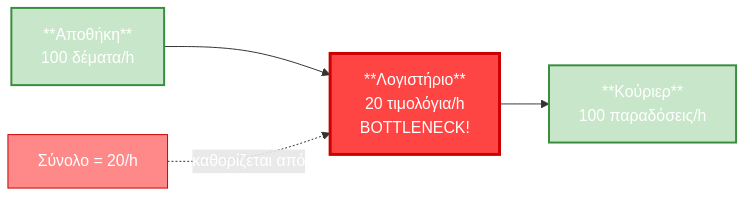
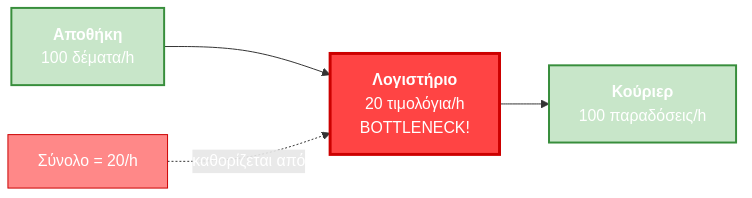
docs(lecture2): update content and diagrams
Expand explanations for the Product-Process Matrix diagonal and example.
Add section on applying facility layout to software/services.
Update associated lecture diagrams and slide styling.

Changed region(s): [[0.4588, 0.3636, 0.6423, 0.4545], [0.7952, 0.4242, 0.9176, 0.5152], [0.0612, 0.1515, 0.1835, 0.2121]]

diff --git a/msc/lectures/lecture2_el.md b/msc/lectures/lecture2_el.md
@@ -320,7 +320,7 @@ style: |
 
 # 3. Product-Process Matrix
 
-<!-- _class: xsmall -->
+<!-- _class: xxsmall -->
 
 Οι **Hayes & Wheelwright (1979)** συνδέουν τον **τύπο προϊόντος** με τον **τύπο διαδικασίας**:
 
@@ -332,13 +332,13 @@ style: |
 | Κόστος/μονάδα | Υψηλό | Μέσο | Χαμηλό |
 | Ευελιξία | Πολύ υψηλή | Μέτρια | Χαμηλή |
 
-**Η «διαγώνιος»:** εταιρείες που βρίσκονται εκτός της φυσικής διαγωνίου αντιμετωπίζουν **ανταγωνιστικό μειονέκτημα**.
+**Η «διαγώνιος»:** Αυτή η διαγώνιος αντιπροσωπεύει την ιδανική ευθυγράμμιση μεταξύ του τύπου του προϊόντος (που χαρακτηρίζεται από την ποικιλία και τον όγκο παραγωγής) και του τύπου της διαδικασίας παραγωγής. Οι εταιρείες που βρίσκονται πάνω σε αυτή έχουν **ευθυγραμμίσει σωστά** τον τύπο προϊόντος με τον τύπο διαδικασίας, βελτιστοποιώντας τις λειτουργίες τους για αποδοτικότητα και ανταγωνιστικότητα. Όσες βρίσκονται εκτός, αντιμετωπίζουν **ανταγωνιστικό μειονέκτημα**.
 
 > **⚠ Ερώτηση για σκέψη:** Τι θα συνέβαινε αν προσπαθούσαμε να κατασκευάσουμε ένα **πολυτελές, custom γιοτ** (Project/Job Shop) πάνω σε μια **κινούμενη γραμμή συναρμολόγησης** της Ford (Assembly Line);
 >
-> — Το γιοτ δεν θα χωράει · δεν μπορεί να "ρέει" στη γραμμή · κάθε γιοτ είναι διαφορετικό, αλλά η γραμμή απαιτεί πανομοιότυπα βήματα. Αποτέλεσμα: **τεράστιο κόστος, μηδενική ευελιξία, χαμένη επένδυση**.
+> — Το γιοτ, ως μοναδικό και εξατομικευμένο προϊόν, δεν θα μπορούσε να "ρέει" σε μια τυποποιημένη γραμμή. Η γραμμή απαιτεί πανομοιότυπα βήματα και εξειδικευμένο εξοπλισμό για μεγάλο όγκο, ενώ το γιοτ χρειάζεται γενικής χρήσης εξοπλισμό και υψηλής εξειδίκευσης εργατικό δυναμικό. Το αποτέλεσμα θα ήταν: **τεράστιο κόστος, μηδενική ευελιξία και μια χαμένη επένδυση**.
 >
-> Αυτό ακριβώς είναι το «εκτός διαγωνίου» — λάθος διεργασία για το λάθος προϊόν.
+> Αυτό ακριβώς είναι το «εκτός διαγωνίου» — η επιλογή **λάθος διεργασίας για το λάθος προϊόν**, οδηγώντας σε αναποτελεσματικότητα και απώλεια ανταγωνιστικότητας.
 
 > *Πηγή: Hayes, R. & Wheelwright, S. (1979). "Link Manufacturing Process and Product Life Cycles". HBR.*
 
@@ -368,6 +368,8 @@ style: |
 
 ---
 
+<!-- _class: small -->
+
 # 3. Χωροταξικός Σχεδιασμός (Facility Layout)
 
 Ο φυσικός σχεδιασμός του χώρου εργασίας ανάλογα με τον τύπο παραγωγής:
@@ -378,6 +380,8 @@ style: |
 | **Product Layout** | Assembly Line | Εξοπλισμός στη σειρά κατά ροή παραγωγής |
 | **Fixed Position Layout** | Projects | Το προϊόν μένει σταθερό, πόροι έρχονται σε αυτό |
 | **Cellular Layout** | Batch | Ομάδες μηχανών για "οικογένειες" προϊόντων |
+
+> Ενώ ο χωροταξικός σχεδιασμός συνδέεται παραδοσιακά με τη φυσική παραγωγή, οι αρχές του εφαρμόζονται και σε εταιρείες λογισμικού ή παροχής υπηρεσιών. Σε ένα περιβάλλον ανάπτυξης λογισμικού, ο σχεδιασμός του γραφείου (π.χ. ανοιχτοί χώροι, ιδιωτικά γραφεία, συνεργατικοί χώροι) επηρεάζει άμεσα την επικοινωνία, τη συνεργασία, την παραγωγικότητα και την ικανότητα συγκέντρωσης των προγραμματιστών. Για παράδειγμα, ένα "open-plan" γραφείο μπορεί να ενισχύει την αυθόρμητη επικοινωνία, αλλά μπορεί να μειώνει την παραγωγικότητα λόγω περισπασμών, ενώ οι "cellular layouts" (ομαδοποίηση ομάδων σε συγκεκριμένους χώρους) μπορούν να προωθήσουν την ομαδική συνοχή και την εστίαση σε συγκεκριμένα projects.
 
 <!-- Ο τύπος παραγωγής επηρεάζει άμεσα και το πώς στήνουμε τον φυσικό χώρο (Facility Layout). Αν έχουμε γραμμή συναρμολόγησης, οι μηχανές μπαίνουν στη σειρά (Product Layout). Αν φτιάχνουμε ένα αεροπλάνο (Project), το προϊόν μένει προφανώς ακίνητο και οι εργάτες πηγαίνουν γύρω του (Fixed Position). Στα μηχανουργεία (Job Shop) ομαδοποιούμε τις μηχανές ανά λειτουργία. -->
 
